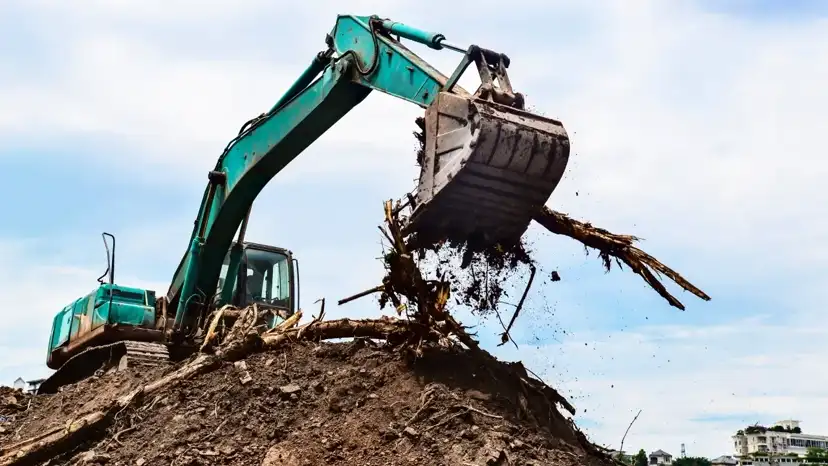
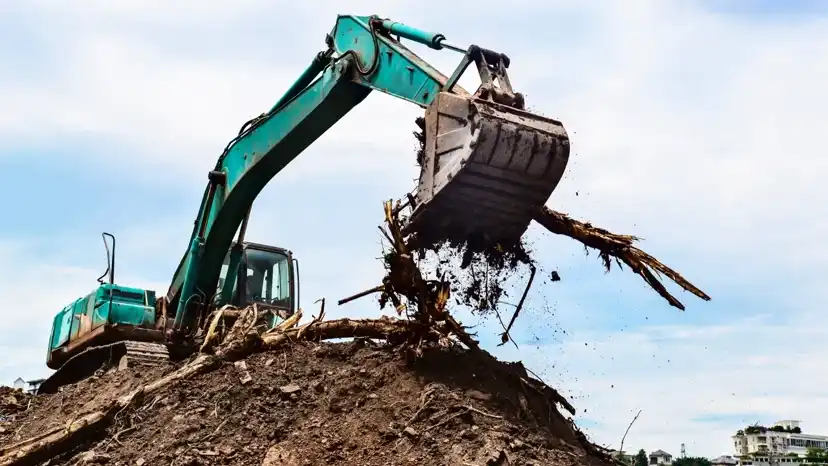
Squeeze mobile hero to q45 for LCP

diff --git a/forestry-mulching-metairie.html b/forestry-mulching-metairie.html
@@ -84,7 +84,7 @@
       <h1 data-reveal="up" data-delay="80">Forestry Mulching in <span class="hl">Metairie, LA</span></h1>
       <div class="answer-box" data-reveal="up" data-delay="160">
         <div class="label">Quick answer</div>
-        <p>On a Metairie lot, forestry mulching means one machine grinding brush and undergrowth into mulch in a single pass, with fences, structures, and trees you're keeping marked and protected before the work starts. Free, fast, and accurate estimates: 504-517-0012.</p>
+        <p>On a Metairie lot, forestry mulching means one machine grinding brush and undergrowth into mulch in a single pass, with fences, structures, plus trees you're keeping marked and protected before the work starts. Free, fast, and accurate estimates: 504-517-0012.</p>
       </div>
       <p class="lede" data-reveal="up" data-delay="220">A side yard gone thick with vines and volunteer growth between your fence and the neighbor's. A vacant lot ready to build. Metairie's small, closely built lots call for a different plan than open acreage, and that's the plan we run.</p>
       <div class="hero-ctas" data-reveal="up" data-delay="280">
@@ -130,7 +130,7 @@
         <h2 class="sec seam" data-reveal="up">How Does Forestry Mulching Work on a <span class="hl">Tight Lot?</span></h2>
         <div class="prose" data-reveal="up" data-delay="100">
           <p>Metairie lots run tight. Most of the parish's subdivisions were built out from the 1950s through the 1970s, when a 60- or 70-foot lot with a fence on both sides was the standard, not the exception. That layout is what changes the job. A crew clearing acreage on the Northshore can walk equipment around a problem area with room to spare. A crew clearing a brushy side yard in Metairie is working between your fence and the neighbor's, often with a shed, an AC unit, or a tree root flare sitting right where the machine needs to pass. Access gets planned before the mulcher ever starts, not worked out on the fly. That planning conversation happens on the walkthrough, before any equipment leaves the trailer, so nobody's guessing where the machine can and can't go once the work is underway.</p>
-          <p>Forestry mulching fits this kind of lot better than most methods because it's one machine doing one job. The mulcher grinds brush, small trees, vines, and undergrowth into material right where it stands, instead of cutting, piling, and hauling in separate trips across a yard that barely has room for one truck. Fewer passes near the fence line means less risk to what you want kept: a fence, a shed, a tree you're not touching. The ground-up material stays down as a mulch layer instead of leaving bare dirt, which matters on the flat, often soggy ground common in this parish. Bare soil next to a drainage ditch or canal erodes and washes; a mulch layer holds.</p>
+          <p>Forestry mulching fits this kind of lot better than most methods because it's one machine doing one job. The mulcher grinds brush, small trees, vines, plus undergrowth into material right where it stands, instead of cutting, piling, then hauling in separate trips across a yard that barely has room for one truck. Fewer passes near the fence line means less risk to what you want kept: a fence, a shed, a tree you're not touching. The ground-up material stays down as a mulch layer instead of leaving bare dirt, which matters on the flat, often soggy ground common in this parish. Bare soil next to a drainage ditch or canal erodes and washes; a mulch layer holds.</p>
           <p>We walk the lot with you first and mark what stays: fences, structures, trees you want kept, utility lines. Then one operator runs the mulcher in a single, controlled pass over the area coming out. No stacked debris pile waiting on a second visit, no separate haul-off crew tracking through the yard behind it. When the machine is done, the brush is gone and the ground is covered, not stripped. Same equipment as a rural clearing job, aimed at a smaller and more crowded target, with a plan for what has to be protected before the first cut.</p>
         </div>
       </div>
@@ -150,7 +150,7 @@
     <h2 class="sec seam" data-reveal="up">Metairie Forestry Mulching <span class="hl">FAQs</span></h2>
     <div class="cols">
       <div>
-        <details class="acc" data-reveal="left" open><summary>What is forestry mulching, and how is it different on a tight Metairie lot? <span class="ind">+</span></summary><div class="body">Forestry mulching grinds brush, small trees, and undergrowth into mulch right where it stands, in one pass, instead of cutting and hauling in separate trips. On a Metairie lot with fences close on both sides, that means fewer passes near property lines and less equipment movement through a tight space.</div></details>
+        <details class="acc" data-reveal="left" open><summary>What is forestry mulching, and how is it different on a tight Metairie lot? <span class="ind">+</span></summary><div class="body">Forestry mulching grinds brush, small trees, plus undergrowth into mulch right where it stands, in one pass instead of cutting and hauling in separate trips. On a Metairie lot with fences close on both sides, that means fewer passes near property lines and less equipment movement through a tight space.</div></details>
         <details class="acc" data-reveal="left" data-delay="80"><summary>Will mulching disturb my fence or my neighbor's yard? <span class="ind">+</span></summary><div class="body">We walk the lot first and mark what stays: fences, structures, trees you're keeping. The machine works the marked area in a controlled pass. That planning step is what keeps the job inside your property line.</div></details>
         <details class="acc" data-reveal="left" data-delay="160"><summary>What happens to the cleared brush and undergrowth? <span class="ind">+</span></summary><div class="body">It gets ground into mulch and left on the ground rather than hauled off. On the flat, often soggy ground common in this parish, that mulch layer holds the soil instead of leaving it bare.</div></details>
       </div>

diff --git a/tree-removal-metairie.html b/tree-removal-metairie.html
@@ -130,7 +130,7 @@
         <h2 class="sec seam" data-reveal="up">How Do We Remove Trees on <span class="hl">Tight Lots?</span></h2>
         <div class="prose" data-reveal="up" data-delay="100">
           <p>Metairie lots run tight. Fifty and sixty-foot frontages, houses close on both sides, a chain-link fence a few feet from the trunk, and a slab foundation next door nobody wants a falling limb landing on. That changes how a tree comes down. On open acreage you fell the whole tree in one direction and clean up after. On a typical lot between Causeway and Bonnabel, or off Veterans near the canal, there usually isn't a direction that misses something: a shed, a driveway, a neighbor's roofline, an AC unit, overhead lines feeding two houses at once. Our crew reads the lot before a saw ever starts, and looks at what has to stay standing, not just what has to come down.</p>
-          <p>That usually means taking the tree apart in pieces instead of dropping it whole. Limbs get roped and lowered by hand or lifted clear with rigging, cut back section by section until what's left is a trunk we can drop into the one open lane the property allows. Fences get padded, and flower beds, sprinkler heads, and driveways get covered before the first cut. If the tree sits near a property line, we talk through what the neighbor needs to know before work starts, because a limb swinging into their yard is still their yard. Old live oaks common in established Metairie neighborhoods carry a lot of weight in low, wide limbs that lean over roofs and carports. Storm-cracked pines and water oaks near drainage canals tend to be more urgent, since a root ball that starts lifting after heavy rain is on borrowed time. Whatever the reason, dead, storm-damaged, or simply in the way of a new driveway or renovation, we take it down piece by piece where the lot demands it, grind the stump if you want the yard usable again, and haul every bit of debris off the property. You're not left with logs and brush to deal with on your own. The estimate is free, fast, and accurate, and it accounts for the access problem before we ever start cutting, not after. Every job is licensed and insured, backed by a 100% satisfaction guarantee.</p>
+          <p>That usually means taking the tree apart in pieces instead of dropping it whole. Limbs get roped and lowered by hand or lifted clear with rigging, cut back section by section until what's left is a trunk we can drop into the one open lane the property allows. Fences get padded, and flower beds, sprinkler heads, plus driveways get covered before the first cut. If the tree sits near a property line, we talk through what the neighbor needs to know before work starts, because a limb swinging into their yard is still their yard. Old live oaks common in established Metairie neighborhoods carry a lot of weight in low, wide limbs that lean over roofs and carports. Storm-cracked pines and water oaks near drainage canals tend to be more urgent, since a root ball that starts lifting after heavy rain is on borrowed time. Whatever the reason, dead, storm-damaged, or simply in the way of a new driveway or renovation, we take it down piece by piece where the lot demands it, grind the stump if you want the yard usable again, and haul every bit of debris off the property. You're not left with logs and brush to deal with on your own. The estimate is free, fast, and accurate, and it accounts for the access problem before we ever start cutting, not after. Every job is licensed and insured, backed by a 100% satisfaction guarantee.</p>
         </div>
       </div>
       <figure data-reveal="right"><img src="wp-content/themes/bigeasy/assets/img/gallery-img3.webp" alt="Tree removal on a tight Metairie lot" loading="lazy"></figure>
@@ -149,8 +149,8 @@
     <h2 class="sec seam" data-reveal="up">Metairie Tree Removal <span class="hl">FAQs</span></h2>
     <div class="cols">
       <div>
-        <details class="acc" data-reveal="left" open><summary>Can you remove a tree on a small Metairie lot with houses close on both sides? <span class="ind">+</span></summary><div class="body">Yes. Most Metairie lots don't leave room to drop a tree whole, so we take it apart piece by piece, roping and lowering limbs and protecting the fences, driveways, and structures on both sides before the trunk comes down.</div></details>
-        <details class="acc" data-reveal="left" data-delay="80"><summary>Do you handle storm-leaning or canal-side trees in Metairie? <span class="ind">+</span></summary><div class="body">Yes. A tree leaning after a storm or sitting near a drainage canal gets evaluated in person before we quote it, since root and soil condition change how it has to come down. The estimate is free, fast, and accurate.</div></details>
+        <details class="acc" data-reveal="left" open><summary>Can you remove a tree on a small Metairie lot with houses close on both sides? <span class="ind">+</span></summary><div class="body">Yes. Most Metairie lots don't leave room to drop a tree whole, so we take it apart piece by piece, roping & lowering limbs, then protecting the fences, driveways, plus structures on both sides before the trunk comes down.</div></details>
+        <details class="acc" data-reveal="left" data-delay="80"><summary>Do you handle storm-leaning or canal-side trees in Metairie? <span class="ind">+</span></summary><div class="body">Yes. A tree leaning after a storm or sitting near a drainage canal gets evaluated in person before we quote it, since root & soil condition change how it has to come down. The estimate is free, fast, and accurate.</div></details>
         <details class="acc" data-reveal="left" data-delay="160"><summary>Do you haul away the tree and grind the stump? <span class="ind">+</span></summary><div class="body">Yes. Debris hauling is part of the job, and we can grind the stump so the spot is usable again. Licensed and insured, backed by a 100% satisfaction guarantee.</div></details>
       </div>
       <div class="faq-img" data-reveal="right">

diff --git a/services.html b/services.html
@@ -84,7 +84,7 @@
       <h1 data-reveal="up" data-delay="80">Our <span class="hl">Land Clearing Services</span></h1>
       <div class="answer-box" data-reveal="up" data-delay="160">
         <div class="label">Quick answer</div>
-        <p>Big Easy Land Clearing runs nine services under one crew: tree removal, lot preparation, brush clearing, forestry mulching, stump grinding, grading and site leveling, demolition services, environmental services, and debris hauling. One estimate covers whatever mix your property needs. Free, fast, and accurate: 504-517-0012.</p>
+        <p>Big Easy Land Clearing runs nine services under one crew: tree removal, lot preparation, brush clearing, forestry mulching, stump grinding, grading & site leveling, demolition services, environmental services, plus debris hauling. One estimate covers whatever mix your property needs. Free, fast, and accurate: 504-517-0012.</p>
       </div>
       <p class="lede" data-reveal="up" data-delay="220">Most land clearing jobs aren't one task, they're several stacked together. A build-ready lot might need trees down, stumps out, the grade leveled, and every scrap of debris hauled off before a slab ever goes in. We built our crew and our equipment list around that reality instead of around a single specialty.</p>
       <div class="hero-ctas" data-reveal="up" data-delay="280">
@@ -123,7 +123,7 @@
     <h2 class="sec seam" data-reveal="up">One Crew, <span class="hl">Every Stage of the Job</span></h2>
     <div class="prose" data-reveal="up">
       <p>A piece of Louisiana land rarely needs just one thing done to it. It needs the brush knocked back so you can see what's actually there, the dead or leaning trees taken down before the next storm tests them, the stumps ground out so a mower or a footer doesn't hit one, and the grade leveled so water runs off instead of pooling against a foundation. Some lots need an old shed or slab broken up and hauled away first. Some sit close enough to a wetland or a drainage line that the work has to be planned around it, not just done to it. All of that is land clearing, even though it looks like nine different jobs on paper.</p>
-      <p>We run all nine as one operation: <a href="tree-removal.html">tree removal</a>, lot preparation, brush clearing, <a href="forestry-mulching.html">forestry mulching</a>, stump grinding, grading and site leveling, demolition services, environmental services, and debris hauling. You don't call one company for the trees and another for the stumps. We walk the property, scope what it needs, quote the whole thing straight, and one crew handles it start to finish across New Orleans, Metairie, Baton Rouge, and the Northshore.</p>
+      <p>We run all nine as one operation: <a href="tree-removal.html">tree removal</a>, lot preparation, brush clearing, <a href="forestry-mulching.html">forestry mulching</a>, stump grinding, grading & site leveling, demolition services, environmental services, plus debris hauling. You don't call one company for the trees and another for the stumps. We walk the property, scope what it needs, quote the whole thing straight, and one crew handles it start to finish across New Orleans, Metairie, Baton Rouge, and the Northshore.</p>
     </div>
   </div>
 </section>
@@ -170,7 +170,7 @@
     <h2 class="sec seam" data-reveal="up">Services <span class="hl">FAQs</span></h2>
     <div class="cols">
       <div>
-        <details class="acc" data-reveal="left" open><summary>What land clearing services does Big Easy offer? <span class="ind">+</span></summary><div class="body">Tree removal, lot preparation, brush clearing, forestry mulching, stump grinding, grading and site leveling, demolition services, environmental services, and debris hauling. Most projects use a mix of these under one estimate.</div></details>
+        <details class="acc" data-reveal="left" open><summary>What land clearing services does Big Easy offer? <span class="ind">+</span></summary><div class="body">Tree removal, lot preparation, brush clearing, forestry mulching, stump grinding, grading & site leveling, demolition services, environmental services, plus debris hauling. Most projects use a mix of these under one estimate.</div></details>
         <details class="acc" data-reveal="left" data-delay="80"><summary>Do I need more than one service for my property? <span class="ind">+</span></summary><div class="body">Often, yes. A lot headed for a slab usually needs clearing, stump grinding, and grading together. We walk the property with you, scope out what it actually needs, and cover the whole job under one estimate and one crew.</div></details>
         <details class="acc" data-reveal="left" data-delay="160"><summary>Which areas do you serve? <span class="ind">+</span></summary><div class="body">New Orleans, Metairie, Baton Rouge, the Northshore, and surrounding southeast Louisiana communities.</div></details>
       </div>

diff --git a/grading-site-leveling-northshore.html b/grading-site-leveling-northshore.html
@@ -84,7 +84,7 @@
       <h1 data-reveal="up" data-delay="80">Grading &amp; Site Leveling in <span class="hl">the Northshore</span></h1>
       <div class="answer-box" data-reveal="up" data-delay="160">
         <div class="label">Quick answer</div>
-        <p>Big Easy Land Clearing grades and levels sites across the Northshore, from wooded acreage to rural building lots, cutting pads, fixing low spots, and setting drainage fall away from structures. Estimates are free, fast, and accurate: 504-517-0012.</p>
+        <p>Big Easy Land Clearing grades and levels sites across the Northshore, from wooded acreage to rural building lots, cutting pads, fixing low spots, plus setting drainage fall away from structures. Estimates are free, fast, and accurate: 504-517-0012.</p>
       </div>
       <p class="lede" data-reveal="up" data-delay="220">Northshore ground is bigger, wetter, and often still wooded when we get the call. We clear or mulch what needs clearing, cut a level pad, and grade the fall so water runs away from the house, the shop, or the barn instead of sitting against it.</p>
       <div class="hero-ctas" data-reveal="up" data-delay="280">
@@ -131,7 +131,7 @@
       <p>The ground itself sets the terms. Southeast Louisiana sits low and flat, and rural Northshore parcels hold water in ways a city lot rarely does. A pad that looks level to the eye can still send runoff straight at a foundation if the fall isn't cut correctly. Our crews grade with drainage in mind from the first pass, setting the slope so water moves away from the house, the shop, or the barn instead of pooling against it. On land that has sat wet for years, that often means addressing a genuine low spot: bringing the grade up, cutting a swale, or reworking the pad so the next hard rain drains instead of sits.</p>
       <p>Access matters more out here too. A Northshore job might mean a half-mile of dirt or gravel before equipment ever reaches the work area, and rural driveways and access roads often need their own grading pass, a compacted, level surface that holds up to trucks and weather instead of rutting out after the first storm. We scope that as part of the job when it's part of getting to the job.</p>
       <p>Because so much Northshore acreage comes to us still wooded, grading rarely stands alone. A tract that's freshly forestry mulched leaves behind ground-up material that can be worked right into a level base, which is one reason mulching and grading pair well on bigger rural tracts instead of running as two disconnected jobs. We walk the whole property, tell you what the ground actually needs, clearing, mulching, or grading, and quote it as one job with one crew.</p>
-      <p>Every estimate is still free, fast, and accurate, whether the pad is a quarter acre behind a Northshore camp house or the footprint for a new build on raw acreage. We look at the access, the grade, and where the water wants to go before we say a word about the plan, and the plan we hand you is the plan we run.</p>
+      <p>Every estimate is still free, fast, and accurate, whether the pad is a quarter acre behind a Northshore camp house or the footprint for a new build on raw acreage. We look at the access, the grade, plus where the water wants to go before we say a word about the plan, and the plan we hand you is the plan we run.</p>
     </div>
     <div class="related" data-reveal="up">
       <a href="grading-site-leveling.html">Grading &amp; Site Leveling</a>

diff --git a/service-areas.html b/service-areas.html
@@ -113,7 +113,7 @@
     <p class="eyebrow" data-reveal="up">Coverage</p>
     <h2 class="sec seam" data-reveal="up">Where Does Big Easy Land Clearing <span class="hl">Work?</span></h2>
     <div class="prose" data-reveal="up">
-      <p>Big Easy Land Clearing is based in New Orleans and works across four core areas: New Orleans itself, Metairie, Baton Rouge, and the Northshore. Southeast Louisiana is not one kind of property. A lot in the city fights different constraints than ten acres outside Covington, and a suburban yard in Metairie calls for a different approach than an open parcel near Baton Rouge. Lot size, tree cover, drainage, and access all change from one area to the next, and our crew adjusts the equipment and the plan to match. We also take on jobs in the smaller communities around each of these four areas. If your property sits somewhere between them, call and ask. Every job starts the same way regardless of address: a walk of the property, a plain explanation of what it needs, and one estimate that's free, fast, and accurate.</p>
+      <p>Big Easy Land Clearing is based in New Orleans and works across four core areas: New Orleans itself, Metairie, Baton Rouge, and the Northshore. Southeast Louisiana is not one kind of property. A lot in the city fights different constraints than ten acres outside Covington, and a suburban yard in Metairie calls for a different approach than an open parcel near Baton Rouge. Lot size, tree cover, drainage, plus access all change from one area to the next, and our crew adjusts the equipment and the plan to match. We also take on jobs in the smaller communities around each of these four areas. If your property sits somewhere between them, call to ask. Every job starts the same way regardless of address: a walk of the property, a plain explanation of what it needs, and one estimate that's free, fast, and accurate.</p>
     </div>
   </div>
 </section>

diff --git a/gallery.html b/gallery.html
@@ -101,7 +101,7 @@
     <p class="eyebrow" data-reveal="up">On the job in southeast Louisiana</p>
     <h2 class="sec seam" data-reveal="up">What Does Our <span class="hl">Land Clearing Work</span> Look Like?</h2>
     <div class="prose" data-reveal="up">
-      <p>Every project here came off a real job site in southeast Louisiana. Some lots needed one thing done, like a single dead tree taken down. Others needed the full sequence: brush cleared, ground mulched, stumps ground out, the pad graded and leveled, and every scrap of debris hauled off before we left. You'll see tracked mulchers working overgrown acreage, excavators clearing storm-damaged trees, and finished lots ready for a foundation to go in. New Orleans, Metairie, Baton Rouge, and the Northshore all show up in this gallery, because that's where the crew works week to week. If your property looks like any of these before photos, call and we'll walk it with you.</p>
+      <p>Every project here came off a real job site in southeast Louisiana. Some lots needed one thing done, like a single dead tree taken down. Others needed the full sequence: brush cleared, ground mulched, stumps ground out, the pad graded & leveled, and every scrap of debris hauled off before we left. You'll see tracked mulchers working overgrown acreage, excavators clearing storm-damaged trees, and finished lots ready for a foundation to go in. New Orleans, Metairie, Baton Rouge, and the Northshore all show up in this gallery, because that's where the crew works week to week. If your property looks like any of these before photos, call us: we'll walk it with you.</p>
     </div>
     <div class="work-grid">
       <div class="w-item tall" data-reveal="zoom"><img src="wp-content/themes/bigeasy/assets/img/gallery-img1.webp" alt="Land clearing job site in progress" loading="lazy"><span class="tag">On the job</span></div>

diff --git a/lot-preparation-metairie.html b/lot-preparation-metairie.html
@@ -84,9 +84,9 @@
       <h1 data-reveal="up" data-delay="80">Lot Preparation in <span class="hl">Metairie, LA</span></h1>
       <div class="answer-box" data-reveal="up" data-delay="160">
         <div class="label">Quick answer</div>
-        <p>Big Easy Land Clearing preps Metairie lots for building: clearing, rough and finish grading, and pad leveling to the elevation your builder calls for, worked around the tight lot lines and close neighbors that come standard here. Estimates are free, fast, and accurate: 504-517-0012.</p>
+        <p>Big Easy Land Clearing preps Metairie lots for building: clearing, rough & finish grading, and pad leveling to the elevation your builder calls for, worked around the tight lot lines and close neighbors that come standard here. Estimates are free, fast, and accurate: 504-517-0012.</p>
       </div>
-      <p class="lede" data-reveal="up" data-delay="220">A Metairie lot rarely gives you extra room. Houses sit close on both sides, driveways are narrow, and whatever stays on the neighbor's side has to stay untouched while we work. We clear, grade, and level so the lot is actually ready to build on, not just cleared and left.</p>
+      <p class="lede" data-reveal="up" data-delay="220">A Metairie lot rarely gives you extra room. Houses sit close on both sides. Driveways are narrow, and whatever stays on the neighbor's side has to stay untouched while we work. We clear, grade, plus level so the lot is actually ready to build on, not just cleared then left.</p>
       <div class="hero-ctas" data-reveal="up" data-delay="280">
         <a class="btn btn-orange" href="tel:5045170012">Call 504-517-0012</a>
         <a class="btn btn-ghost" href="#estimate">Get a Free Quote</a>

diff --git a/residential-land-clearing.html b/residential-land-clearing.html
@@ -114,7 +114,7 @@
     <p class="eyebrow" data-reveal="up">Why homeowners call</p>
     <h2 class="sec seam" data-reveal="up">When Do You Need <span class="hl">Residential Clearing?</span></h2>
     <div class="feature-list">
-      <div class="fl" data-reveal="left"><h3>Backyard Reclamation</h3><p>Years of undergrowth, volunteer saplings, and vines can turn a usable yard into ground you avoid. We clear it back to something you can walk, mow, and actually use.</p></div>
+      <div class="fl" data-reveal="left"><h3>Backyard Reclamation</h3><p>Years of undergrowth, volunteer saplings, plus vines can turn a usable yard into ground you avoid. We clear it back to something you can walk and mow again.</p></div>
       <div class="fl" data-reveal="right"><h3>Hazard Trees</h3><p>A leaning trunk, storm-weakened limbs, or a tree crowding the roofline is a risk you don't wait on. We take it down and clear the debris.</p></div>
       <div class="fl" data-reveal="left" data-delay="120"><h3>Garage &amp; Addition Prep</h3><p>Before a slab or a footing goes in, the ground has to be clear and level. We handle the trees, brush, and grading so your contractor starts on clean dirt.</p></div>
       <div class="fl" data-reveal="right" data-delay="120"><h3>Storm Cleanup</h3><p>Downed limbs, snapped trunks, and storm debris on a residential lot need to come off the property. One call gets a crew out to clear it.</p></div>

diff --git a/grading-site-leveling-baton-rouge.html b/grading-site-leveling-baton-rouge.html
@@ -84,7 +84,7 @@
       <h1 data-reveal="up" data-delay="80">Grading &amp; Site Leveling in <span class="hl">Baton Rouge, LA</span></h1>
       <div class="answer-box" data-reveal="up" data-delay="160">
         <div class="label">Quick answer</div>
-        <p>Big Easy Land Clearing grades and levels lots across Baton Rouge for new construction pads, commercial sites, and low spots that hold water after rain. Fall gets cut away from structures, high ground fills low ground, and the site is left ready for concrete or landscaping. Estimates are free, fast, and accurate: 504-517-0012.</p>
+        <p>Big Easy Land Clearing grades and levels lots across Baton Rouge for new construction pads, commercial sites, plus low spots that hold water after rain. Fall gets cut away from structures, high ground fills low ground, and the site is left ready for concrete or landscaping. Estimates are free, fast, and accurate: 504-517-0012.</p>
       </div>
       <p class="lede" data-reveal="up" data-delay="220">A builder needs a flat, dry pad before the framing crew shows up. A commercial lot needs a level footprint before paving starts. A yard has held water in the same corner since the last hard rain. Whatever the ground looks like now, we grade it into something you can build on.</p>
       <div class="hero-ctas" data-reveal="up" data-delay="280">

diff --git a/land-clearing-metairie.html b/land-clearing-metairie.html
@@ -86,7 +86,7 @@
         <div class="label">Quick answer</div>
         <p>Big Easy Land Clearing works Metairie's tight suburban lots: tree removal, brush clearing, forestry mulching, and lot preparation, with equipment sized for close-in neighbors and careful access. Licensed and insured, 100% satisfaction guarantee, free estimates: 504-517-0012.</p>
       </div>
-      <p class="lede" data-reveal="up" data-delay="220">Metairie lots don't leave much daylight between houses. A carport a few feet off the fence line, a pool pump tucked against the property line, a stretch of brush behind a subdivision fence nobody's touched in years. We size the equipment to the lot, protect what's staying, and the estimate is free, fast, and accurate.</p>
+      <p class="lede" data-reveal="up" data-delay="220">Metairie lots don't leave much daylight between houses. A carport a few feet off the fence line, a pool pump tucked against the property line, a stretch of brush behind a subdivision fence nobody's touched in years. We size the equipment to the lot and protect what's staying. The estimate is free, fast, and accurate.</p>
       <div class="hero-ctas" data-reveal="up" data-delay="280">
         <a class="btn btn-orange" href="tel:5045170012">Call 504-517-0012</a>
         <a class="btn btn-ghost" href="#estimate">Get a Free Quote</a>

diff --git a/forestry-mulching-northshore.html b/forestry-mulching-northshore.html
@@ -129,7 +129,7 @@
         <p class="eyebrow" data-reveal="up">The method</p>
         <h2 class="sec seam" data-reveal="up">How Does Forestry Mulching <span class="hl">Work Here?</span></h2>
         <div class="prose" data-reveal="up" data-delay="100">
-          <p>We walk the tract with you first, because Northshore acreage varies a lot from parcel to parcel. Some lots are dry and sandy, some sit low and stay soft after rain, and the growth on top can be anything from thin pine saplings to a wall of vine and palmetto. The estimate is free, fast, and accurate, and it's based on what the machine will actually be working through, not a guess from the road.</p>
+          <p>We walk the tract with you first, because Northshore acreage varies a lot from parcel to parcel. Some lots are dry and sandy. Others sit low and stay soft after rain, with growth on top ranging from thin pine saplings to a wall of vine and palmetto. The estimate is free, fast, and accurate, and it's based on what the machine will actually be working through, not a guess from the road.</p>
         </div>
         <div class="pull-quote" data-reveal="up" data-delay="180">
           "Serious skill! That tree removal job near my fence was tricky but they made it look easy. Safe and careful work. Will call again, yeah you rite!"

diff --git a/lot-preparation-baton-rouge.html b/lot-preparation-baton-rouge.html
@@ -84,7 +84,7 @@
       <h1 data-reveal="up" data-delay="80">Lot Preparation in <span class="hl">Baton Rouge, LA</span></h1>
       <div class="answer-box" data-reveal="up" data-delay="160">
         <div class="label">Quick answer</div>
-        <p>Big Easy Land Clearing takes raw Baton Rouge parcels to build-ready: clearing pine stands and standing timber, then rough and finish grading to the builder's specified elevation, with drainage worked into the grade from the start. One estimate covers clearing through pad-ready. Free, fast, and accurate: 504-517-0012.</p>
+        <p>Big Easy Land Clearing takes raw Baton Rouge parcels to build-ready: clearing pine stands and standing timber, then rough & finish grading to the builder's specified elevation, with drainage worked into the grade from the start. One estimate covers clearing through pad-ready. Free, fast, and accurate: 504-517-0012.</p>
       </div>
       <p class="lede" data-reveal="up" data-delay="220">Acreage along the Baton Rouge growth corridors comes in raw: timber standing, pine mixed with hardwood, ground that has to be shaped before a foundation crew can start. We clear it, grade it to the elevation the plans call for, and hand it back ready for the trades.</p>
       <div class="hero-ctas" data-reveal="up" data-delay="280">
